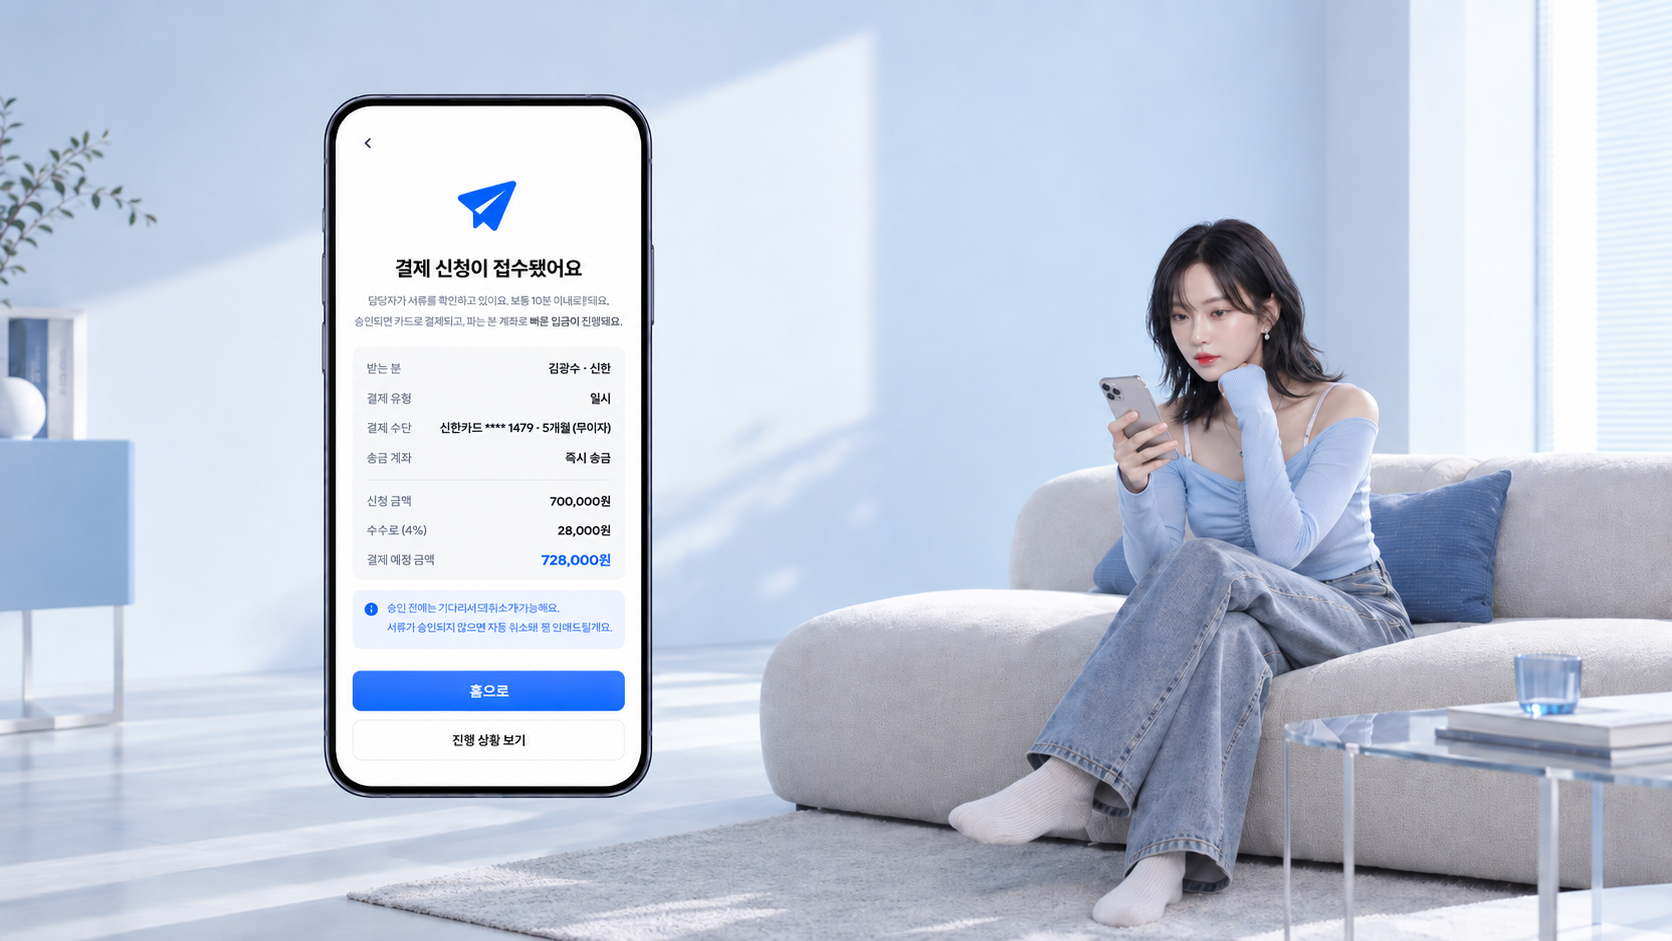
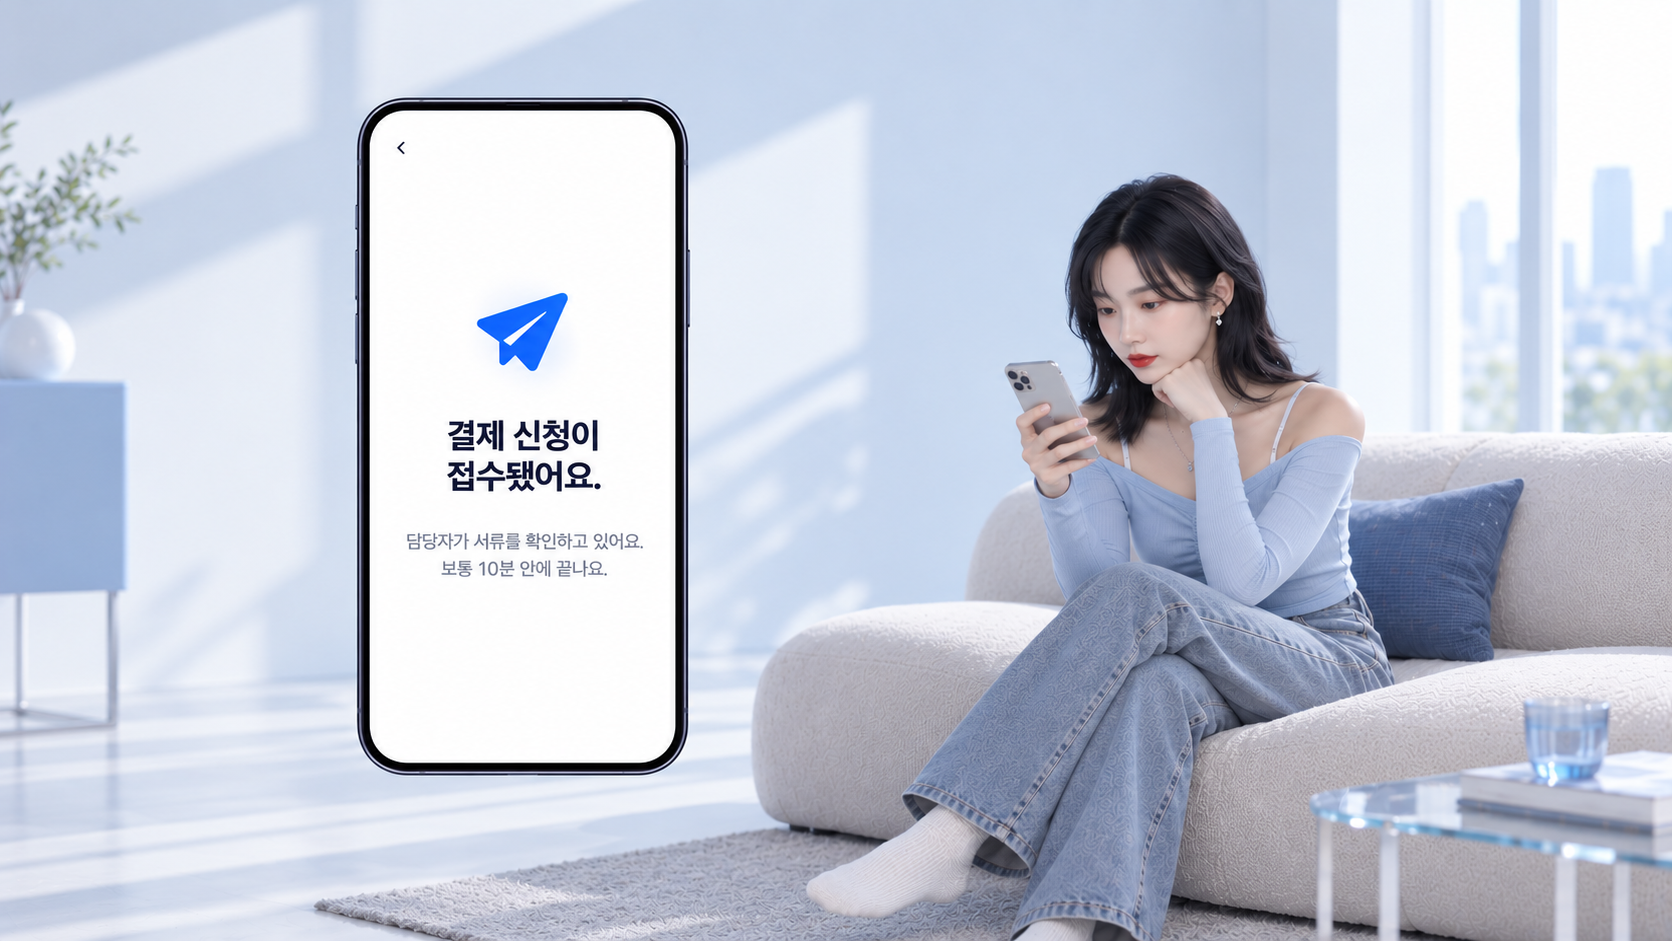
이용 방법 사진을 새 이미지로 교체

diff --git a/index.html b/index.html
@@ -1392,7 +1392,7 @@
       </div>
 
       <div class="hwrap">
-        <img class="hpic" src="img/band-bg.png?v=1" alt="랜선페이 앱으로 결제하는 모습">
+        <img class="hpic" src="img/band-bg.png?v=2" alt="랜선페이 앱으로 결제하는 모습">
         <div class="hcol">
           <div class="hphone"><img id="hshot" src="img/guide_shots/login.png?v=2" alt="단계별 앱 화면"></div>
           <div class="hnav">
